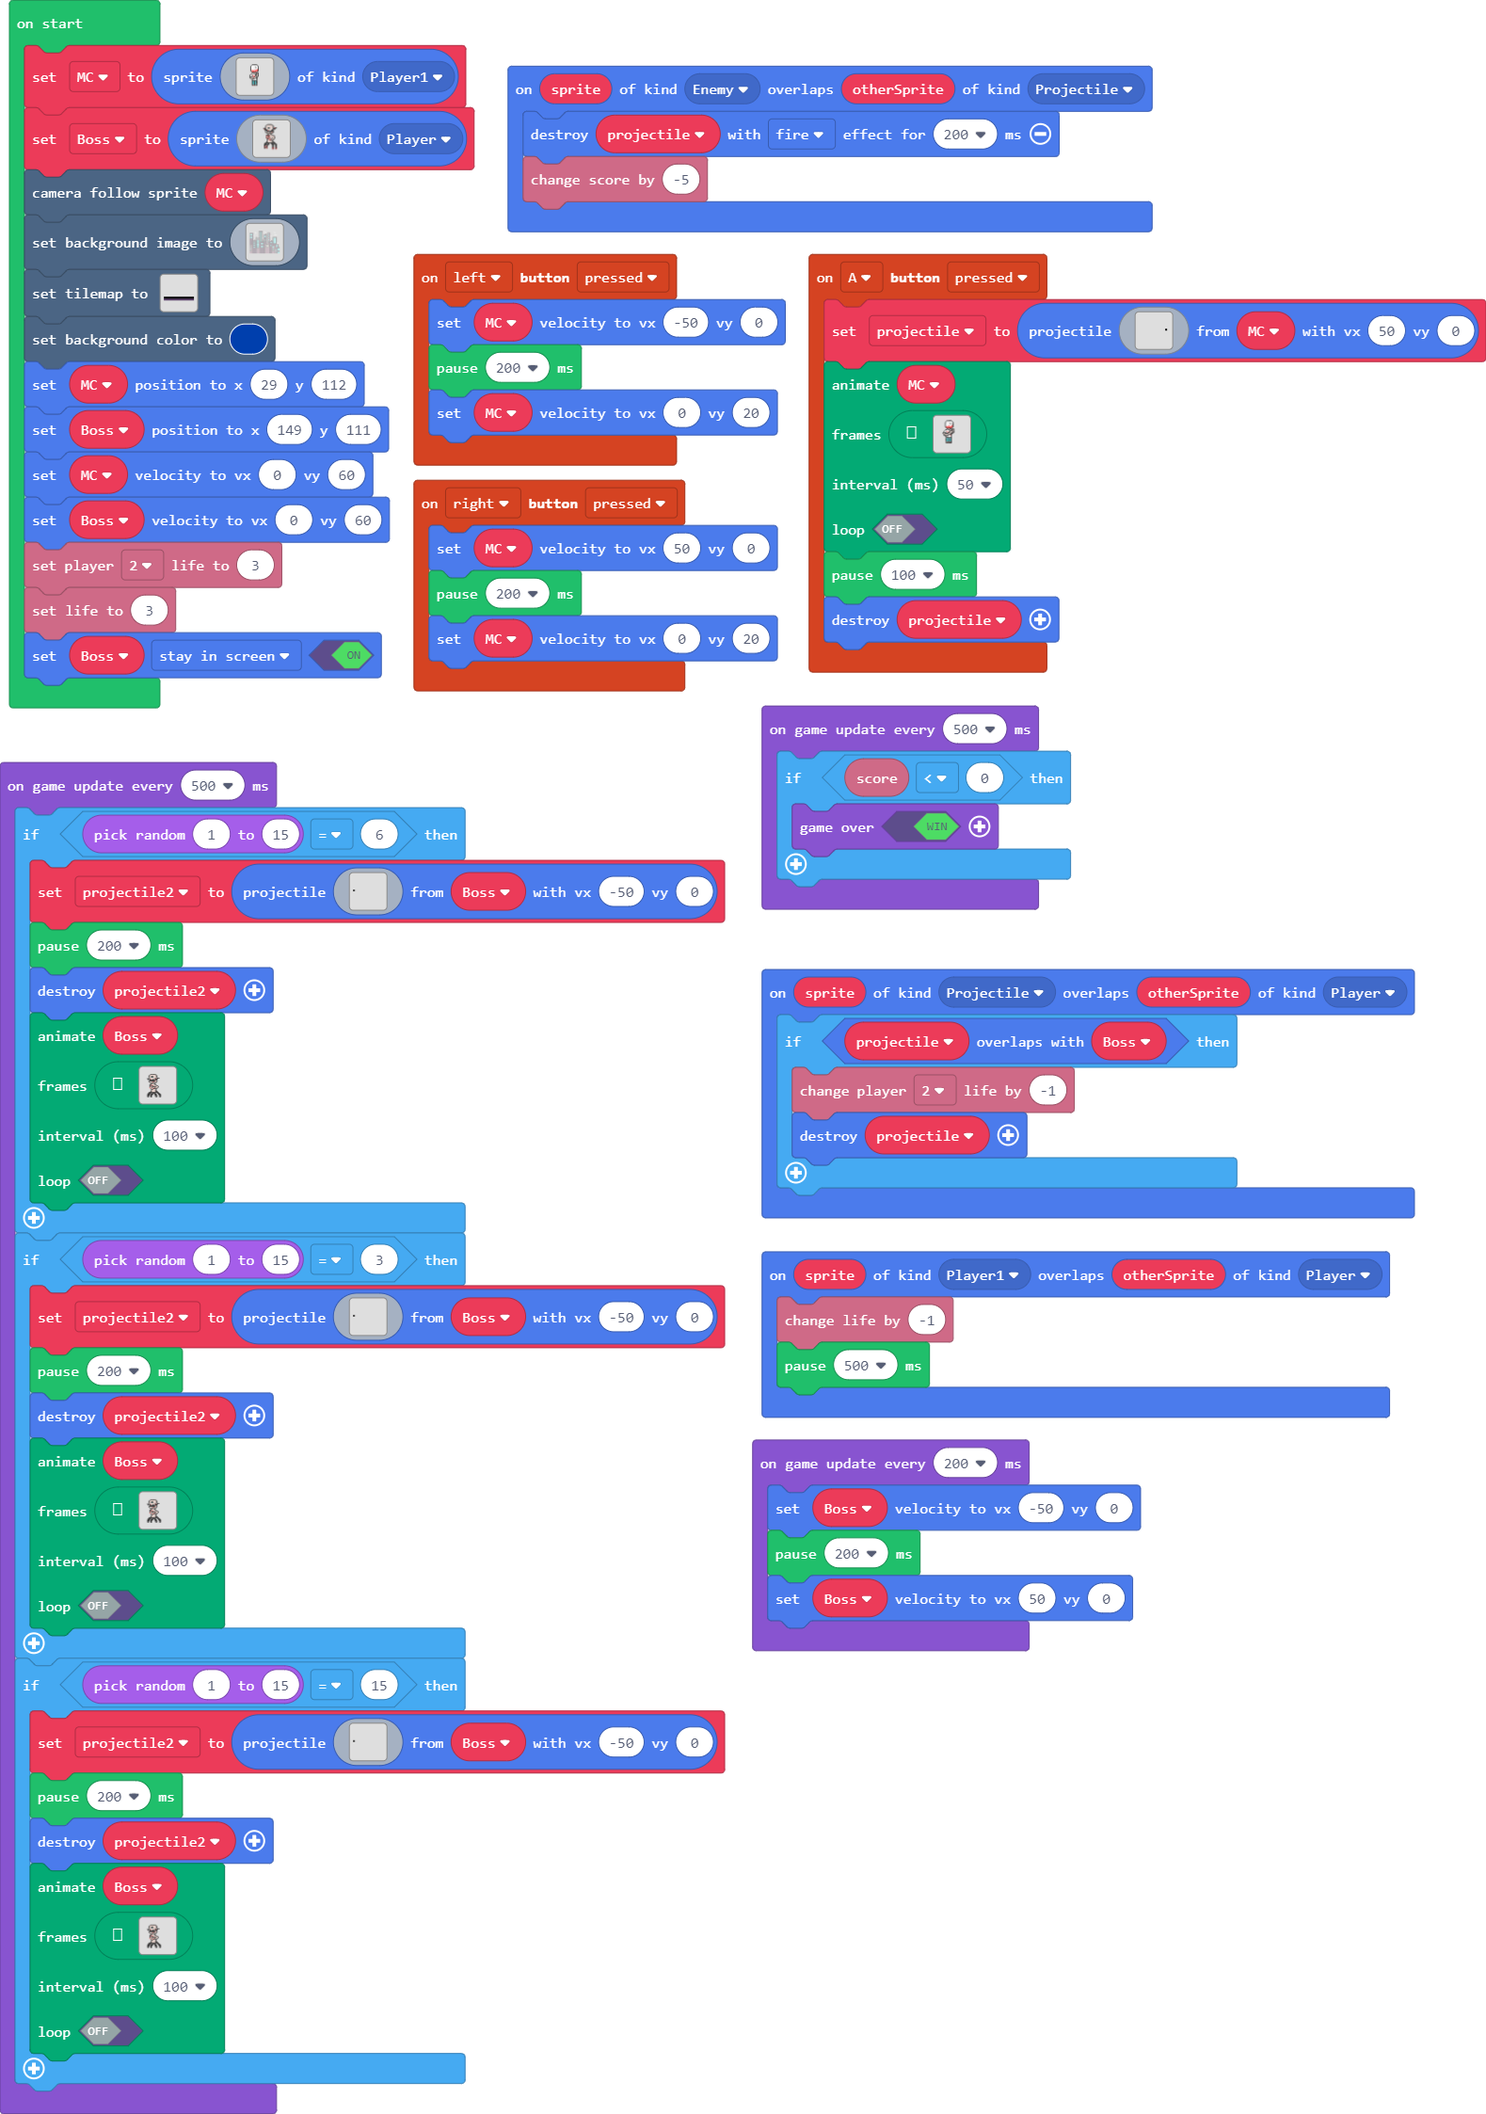
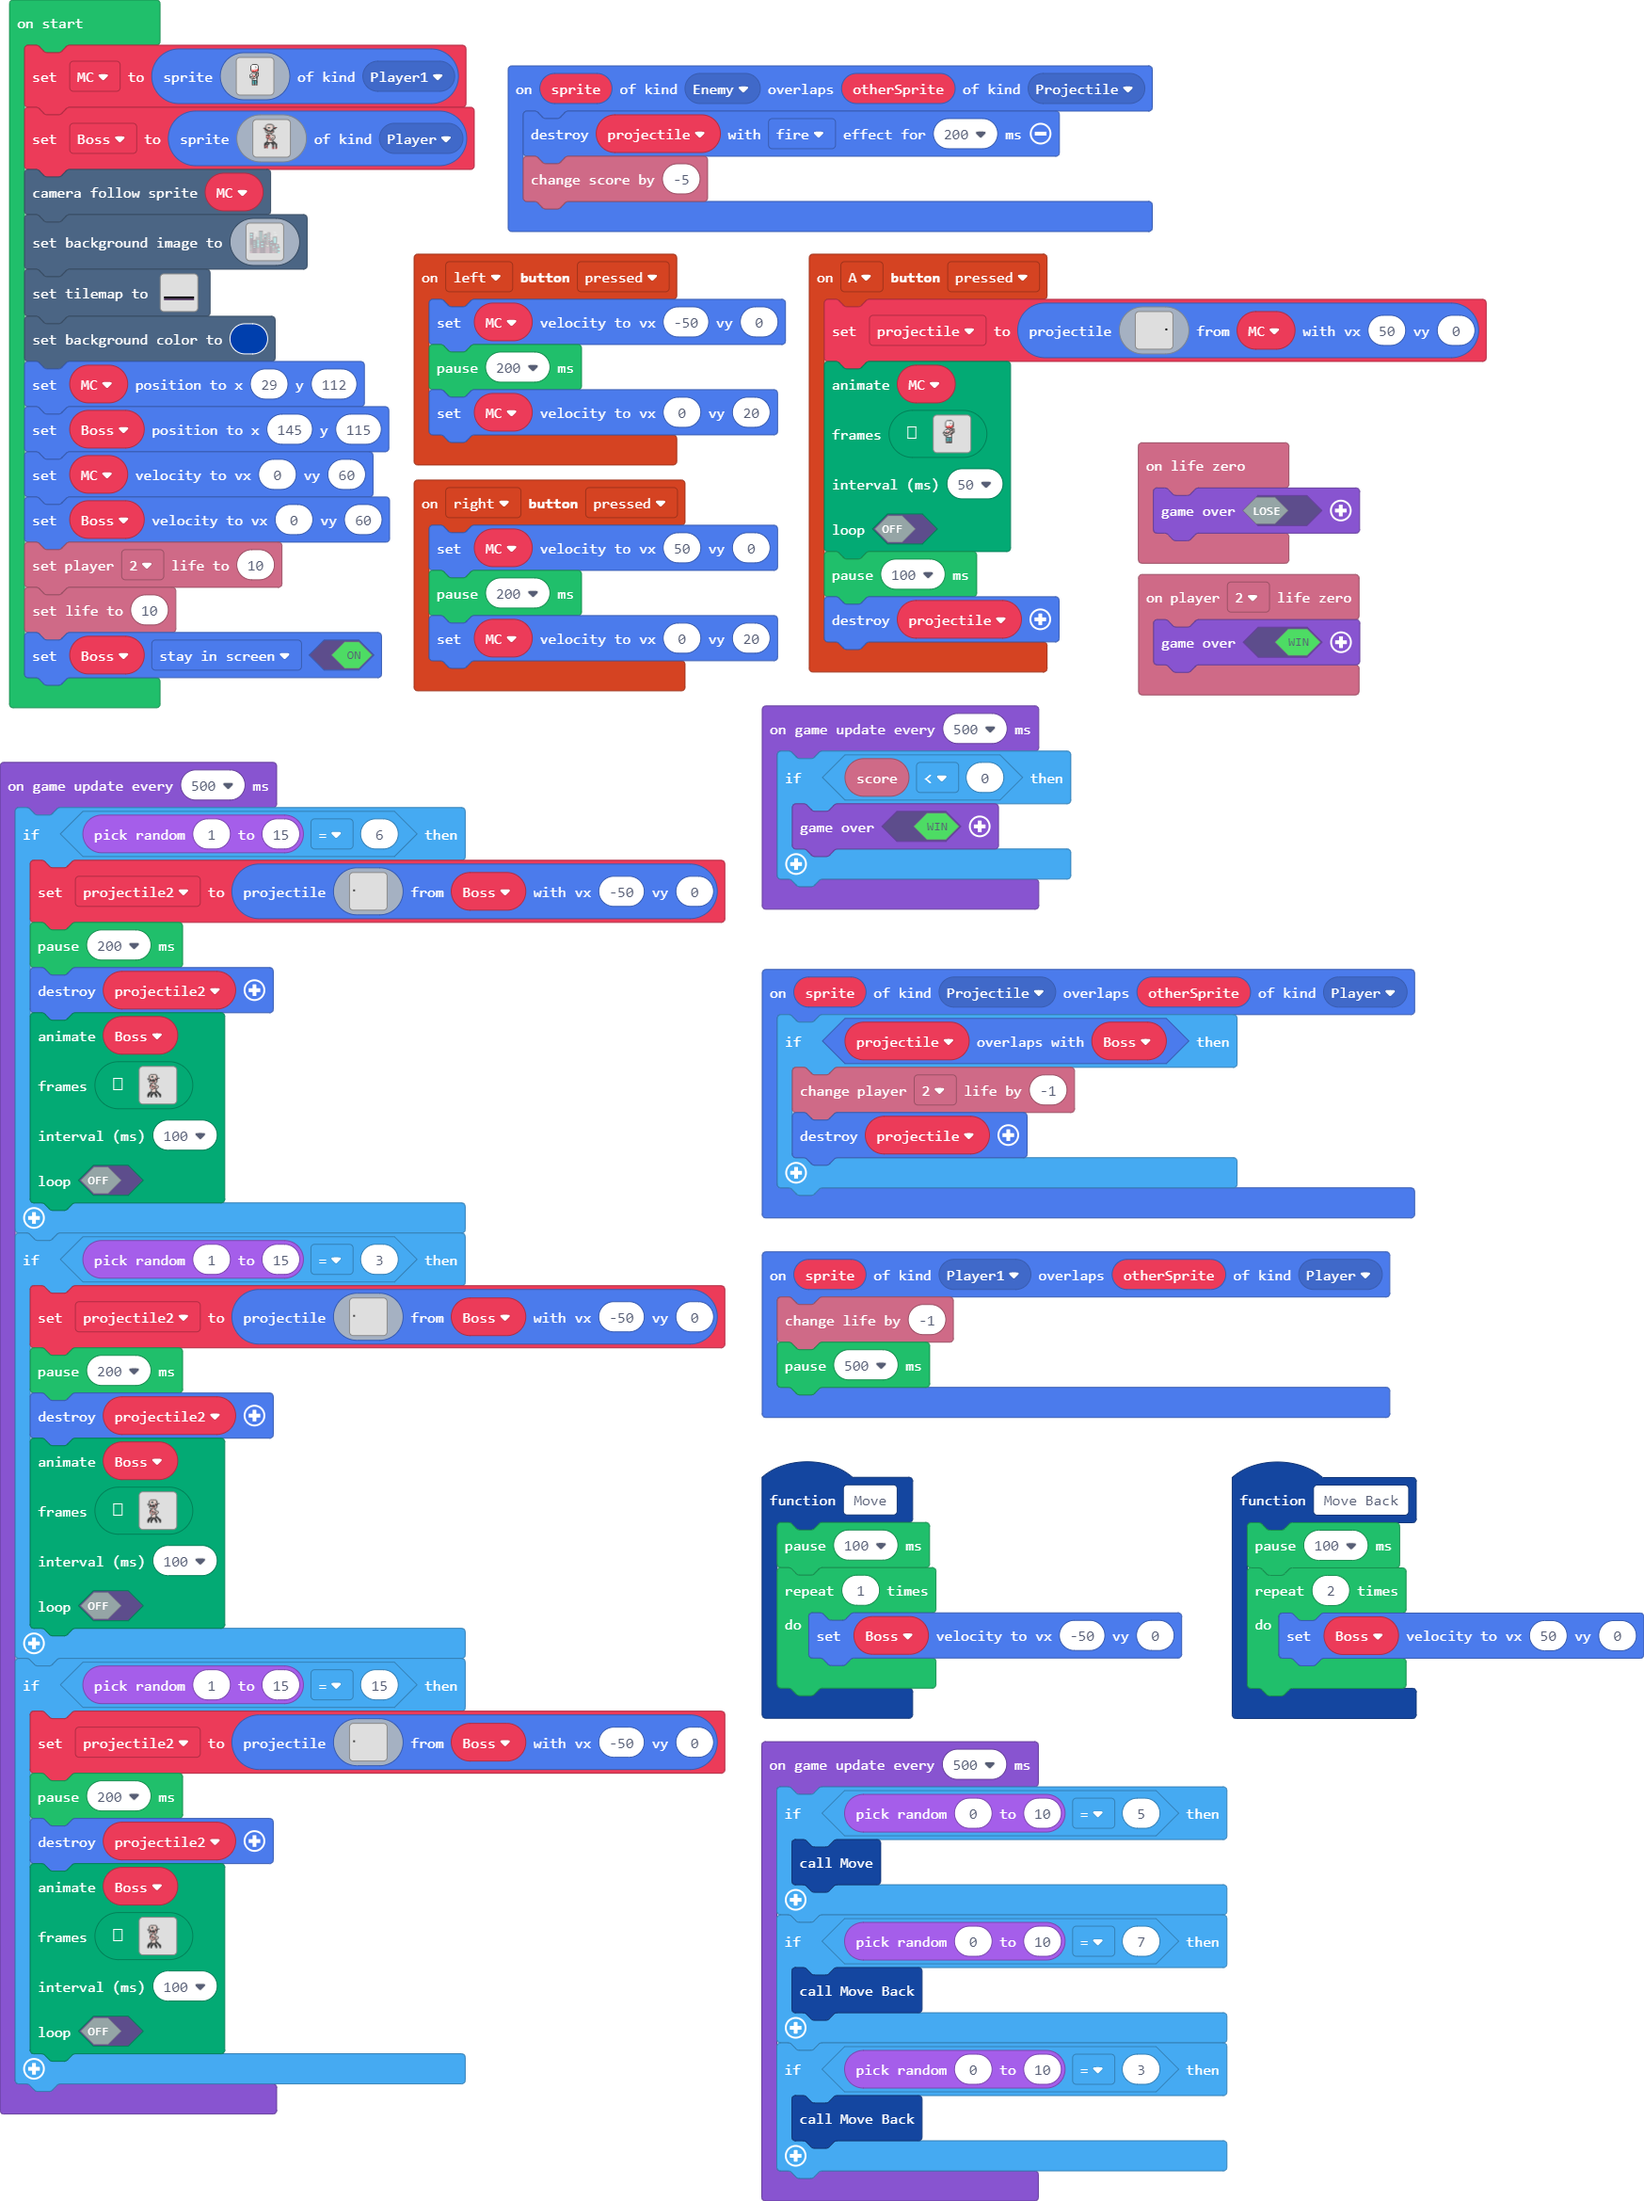
Update main.blocks, main.ts

diff --git a/main.ts b/main.ts
@@ -79,6 +79,18 @@ c c c c c c f c c c c c d c c c
 1 1 1 1 1 1 1 1 1 1 1 1 1 1 1 1 
 `
 }
+function Move () {
+    pause(100)
+    for (let index = 0; index < 1; index++) {
+        Boss.setVelocity(-50, 0)
+    }
+}
+function Move_Back () {
+    pause(100)
+    for (let index = 0; index < 2; index++) {
+        Boss.setVelocity(50, 0)
+    }
+}
 controller.left.onEvent(ControllerButtonEvent.Pressed, function () {
     MC.setVelocity(-50, 0)
     pause(200)
@@ -91,6 +103,9 @@ sprites.onOverlap(SpriteKind.Player1, SpriteKind.Player, function (sprite, other
 sprites.onOverlap(SpriteKind.Enemy, SpriteKind.Projectile, function (sprite, otherSprite) {
     projectile.destroy(effects.fire, 200)
     info.changeScoreBy(-5)
+})
+info.player2.onLifeZero(function () {
+    game.over(true)
 })
 controller.A.onEvent(ControllerButtonEvent.Pressed, function () {
     projectile = sprites.createProjectileFromSprite(img`
@@ -412,6 +427,9 @@ controller.right.onEvent(ControllerButtonEvent.Pressed, function () {
     pause(200)
     MC.setVelocity(0, 20)
 })
+info.onLifeZero(function () {
+    game.over(false)
+})
 sprites.onOverlap(SpriteKind.Projectile, SpriteKind.Player, function (sprite, otherSprite) {
     if (projectile.overlapsWith(Boss)) {
         info.player2.changeLifeBy(-1)
@@ -646,17 +664,12 @@ tiles.setTilemap(tiles.createTilemap(
         ))
 scene.setBackgroundColor(8)
 MC.setPosition(29, 112)
-Boss.setPosition(149, 111)
+Boss.setPosition(145, 115)
 MC.setVelocity(0, 60)
 Boss.setVelocity(0, 60)
-info.player2.setLife(3)
-info.setLife(3)
+info.player2.setLife(10)
+info.setLife(10)
 Boss.setFlag(SpriteFlag.StayInScreen, true)
-game.onUpdateInterval(200, function () {
-    Boss.setVelocity(-50, 0)
-    pause(200)
-    Boss.setVelocity(50, 0)
-})
 game.onUpdateInterval(500, function () {
     if (info.score() < 0) {
         game.over(true)
@@ -1484,5 +1497,16 @@ f . . . . . . . . . . . . . . . . . . .
         100,
         false
         )
+    }
+})
+game.onUpdateInterval(500, function () {
+    if (Math.randomRange(0, 10) == 5) {
+        Move()
+    }
+    if (Math.randomRange(0, 10) == 7) {
+        Move_Back()
+    }
+    if (Math.randomRange(0, 10) == 3) {
+        Move_Back()
     }
 })
